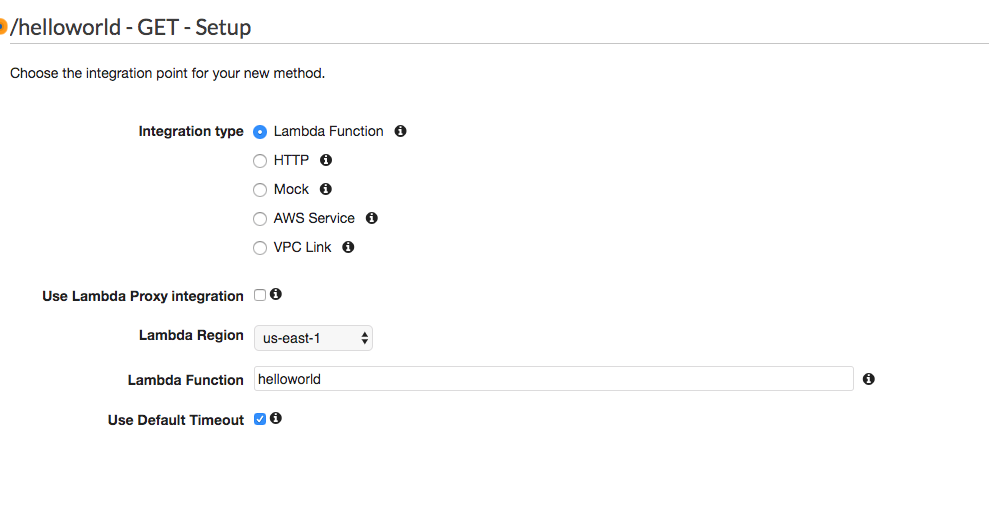
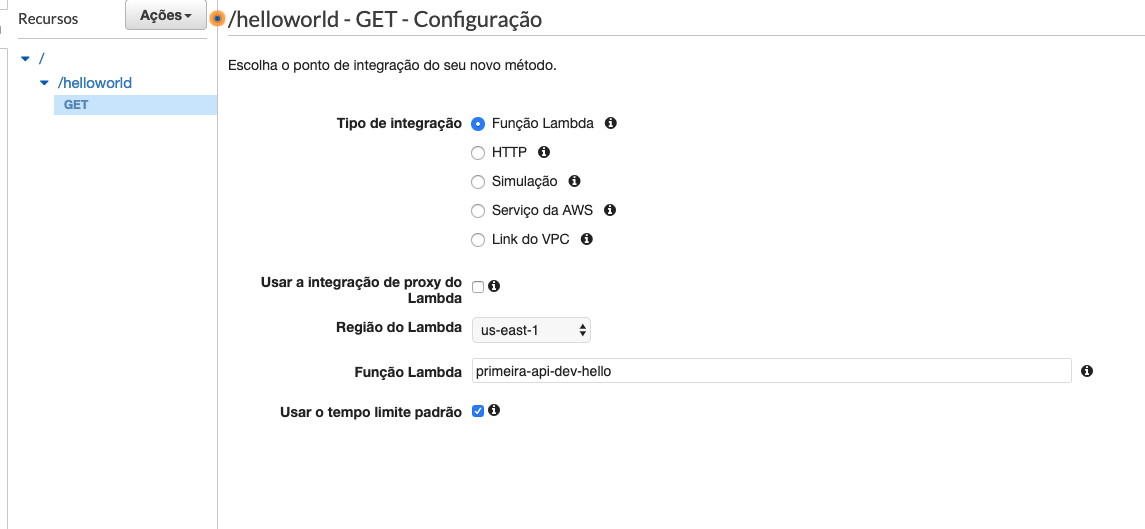
01 - primeira api prd

diff --git a/02 - Api Gateway/01 - Primeira api/README.md b/02 - Api Gateway/01 - Primeira api/README.md
@@ -2,27 +2,24 @@
 
 ### Criando o lambda
 
-1. Na pagina princial do serviço Lambda, clique em 'Create Function'
-![img/create-function.png](img/create-function.png)
-2. Preencha com as informações pedidas
-![img/create-function-options.png](img/create-function-options.png)
-3. copie o conteudo do arquivo lambda.py e cole no editor da função
-![img/copying-code-to-function.png](img/copying-code-to-function.png)
-4. Clique em 'Save' no topo da página
+1. No terminal do IDE criado no cloud9 execute o comando `cd ~/environment/aula-serverless-mob/02\ -\ Api\ Gateway/01\ -\ Primeira\ api/` para entrar na pasta que fara este exercicio.
+2. Utilize o IDE para explorar os arquivos handler.py e serverless.yml que constam nessa pasta, eles serão utilizados para criar o lambda da api que vamos utilizar.
+3. No terminal utilize o comando `sls deploy` para fazer deploy da função lambda
 
 ### Criando a api
-1. Selecione 'new api' e coloque o nome:
+1. Em uma nova aba, abra o console da AWS e va para o serviço `Api Gateway`
+2. Clique em `Comece agora`
+   ![img/comece.png](img/comece.png)
+3. Selecione 'nova api' e coloque o nome `api-teste` em seguida clique em `criar api`:
 ![img/create-api-name.png](img/create-api-name.png)
-2. Clique em 'actions' e depois em 'Create Reource'
-![img/create-resource.png](img/create-resource.png)
-3. Preencha o formulario e clique no botão 'Create Resource'
-![img/filling-resource.png](img/filling-resource.png)
-4. Clique em 'Actions' e deplois em 'Create Method' e selecione o metodo get
+4. Clique em 'ações' e depois em 'Criar Recurso', no nome do Recurso apenas digite `helloworld`, assim como em caminho do recurso e clique em `criar recurso` no canto inferior direito.
+![img/createRecurso.png](img/createRecurso.png)
+5. Clique em 'ações' e deplois em 'Criar método' e selecione o metodo get e crie.
 ![img/selecting-method.png](img/selecting-method.png)
-5. Preencha os parametros conforme a imagem, após clique em save
+6. Preencha os parametros conforme a imagem, após clique em Salvar
 ![img/api-get-parameters-lambda.png](img/api-get-parameters-lambda.png)
-6. Clique em 'Actions' e selecione 'Deploy API'
-7. Em 'Deployment Stage' selecione '[New Stage]', preencha o que é pedido, e clique em 'Deploy'
+7. Clique em 'Ações' e selecione 'Implantar API'
+8. Em 'Deployment Stage' selecione '[Novo Estágio]', preencha o que é pedido, e clique em 'Implante'
 ![img/deploy-api.png](img/deploy-api.png)
-8. Para testar é só utilizar a url que foi fornecida e adcionar /helloworld no navegador
+9. Para testar é só utilizar a url que foi fornecida e adcionar /helloworld ao final no navegador como na imagem abaixo
 ![img/using-api.png](img/using-api.png)
